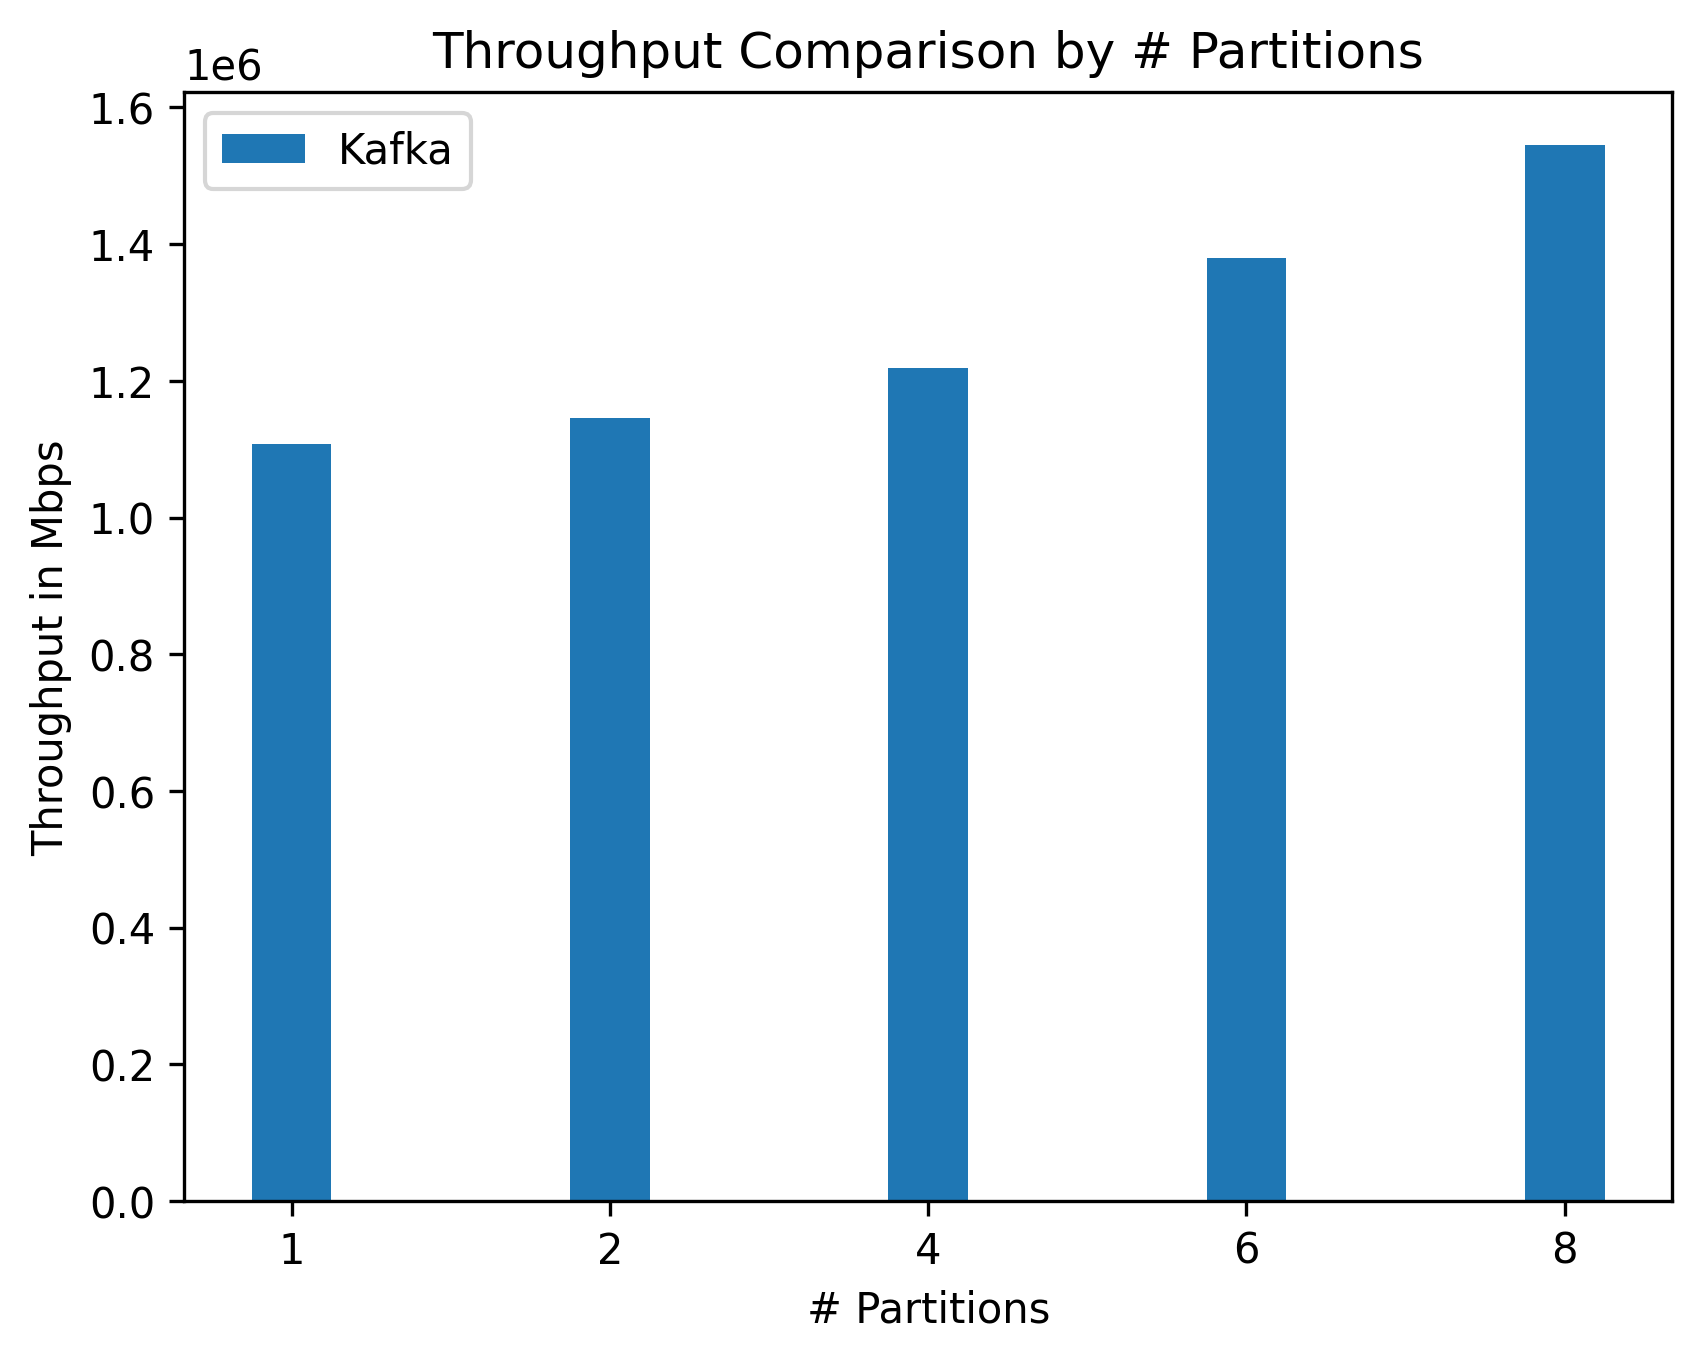
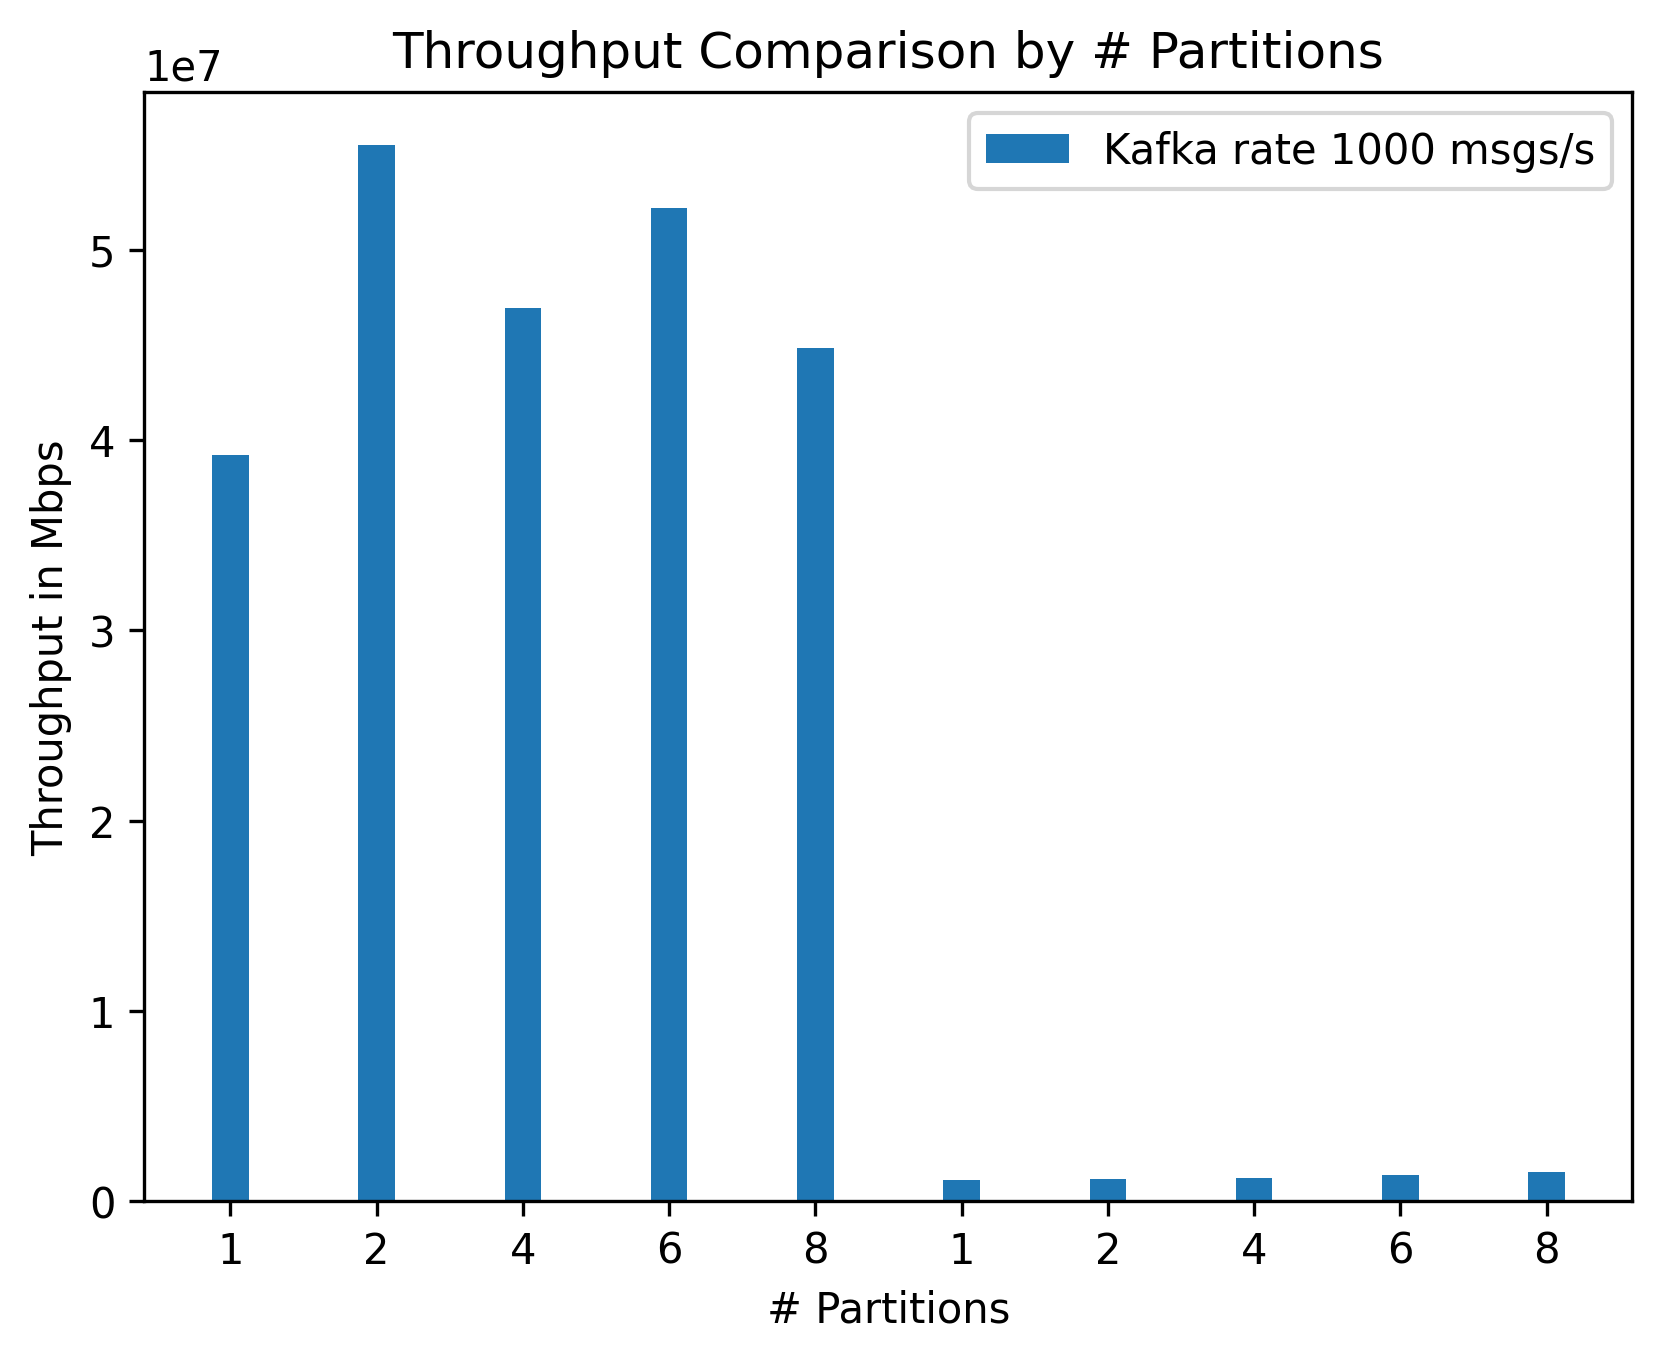
Commit

diff --git a/create_workloads_and_graph_results/graph_results.py b/create_workloads_and_graph_results/graph_results.py
@@ -171,7 +171,8 @@ def create_plot_data(test_dict, measurement):
         return df_0k.reset_index(drop=True), df_1k.reset_index(drop=True)
     elif test == 'Partitions_tests':
         df_0k, df_1k = get_thrpt_ltcy(df_hist, partitions, measurement, sizes_in_bytes, 'partitions')
-        return df_0k.reset_index(drop=True), df_1k.reset_index(drop=True)
+        df_thrpt_part = pd.concat([df_0k, df_1k], axis=0)
+        return df_thrpt_part.reset_index(drop=True)
     elif test == 'Topics_tests':
         df_0k, df_1k = get_thrpt_ltcy(df_hist, topics, measurement, sizes_in_bytes, 'topics')
         return df_0k.reset_index(drop=True), df_1k.reset_index(drop=True)
@@ -214,9 +215,11 @@ def create_histogram(df_in, ltcy_or_thrpt, filepath):
     else:
         if ltcy_or_thrpt == 'thrpt':
             measurement, x_ticks = set_measurement_x_ticks(df_plt)
+            broker_1, broker_2 = set_name_of_bars(df_plt)
+            data_1, data_2 = set_data(df_plt)
             show_plt(bar_width, df_plt, x_indexes,
-                     'RabbitMQ-mbps', 'Kafka-mbps',
-                     'RabbitMQ', 'Kafka',
+                     data_1, data_2,
+                     broker_1, broker_2,
                      measurement, 'Throughput in Mbps',
                      'Throughput Comparison by ' + measurement,
                      x_ticks,
@@ -224,9 +227,10 @@ def create_histogram(df_in, ltcy_or_thrpt, filepath):
                      logarithmic_scale=False)
         elif ltcy_or_thrpt == 'ltcy':
             measurement, x_ticks = set_measurement_x_ticks(df_plt)
+            broker_1, broker_2 = set_name_of_bars(df_plt)
             show_plt(bar_width, df_plt, x_indexes,
                      'RabbitMQ', 'Kafka-exactly-once',
-                     'RabbitMQ', 'Kafka',
+                     broker_1, broker_2,
                      measurement, 'Latency(ms)',
                      'Latency(ms) Comparison by ' + measurement,
                      x_ticks,
@@ -260,7 +264,28 @@ def set_measurement_x_ticks(df_plt):
 
     return measurement, x_ticks
 
+def set_name_of_bars(df_plt):
+    broker_1 = 'RabbitMQ'
+    broker_2 = 'Kafka'
+    if 'partitions' in df_plt.columns:
+        rate_1 = df_plt['rate'].iloc[0]  # Get the first element
+        rate_2 = df_plt['rate'].iloc[-1] # Get the last element using -1 index
+        
+        if rate_1 == 0:
+            rate_1 = 'max'
+        broker_1 = 'Kafka rate ' + rate_1 + ' msgs/s'
+        broker_2 = 'Kafka rate ' + str(rate_2) + ' msgs/s'
+        
+    return broker_1, broker_2
 
+def set_data(df_plt):
+    data_1 = 'RabbitMQ-mbps'
+    data_2 = 'Kafka-mbps'
+    if 'partitions' in df_plt.columns:
+        split_index = len(df_plt) // 2
+        data_1 = df_plt.iloc[:split_index]
+        data_2 = df_plt.iloc[split_index:]
+    return data_1, data_2
 def show_plt(bar_width, df_in, x_indexes,
              data_broker_1, data_broker_2,
              broker_1, broker_2,
@@ -271,9 +296,12 @@ def show_plt(bar_width, df_in, x_indexes,
              logarithmic_scale,
              ):
     # Plot the data
-    if 'RabbitMQ' in df_in.columns or 'RabbitMQ-mbps' in df_in.columns:
-        plt.bar(x_indexes - bar_width, df_in[data_broker_1], width=bar_width, label=broker_1)
-    plt.bar(x_indexes, df_in[data_broker_2], width=bar_width, label=broker_2)
+    if 'partitions' in df_in.columns:
+
+    else 
+        if 'RabbitMQ' in df_in.columns or 'RabbitMQ-mbps' in df_in.columns:
+            plt.bar(x_indexes - bar_width, df_in[data_broker_1], width=bar_width, label=broker_1)
+        plt.bar(x_indexes, df_in[data_broker_2], width=bar_width, label=broker_2)
 
     # Add labels and title
     plt.xlabel(x_label)
@@ -401,7 +429,7 @@ def create_directory_data_dictionary(test_directory):
         time_value = time_match.group()
         data['timestamp'] = time_value
 
-    graph_directory = os.path.join(parent_directory, 'create_and_analyse_tests', 'result', 'Graphs', test_directory)
+    graph_directory = os.path.join(parent_directory, 'create_workloads_and_graph_results', 'result', 'Graphs', test_directory)
     return data_dict, graph_directory
 
 
@@ -414,41 +442,43 @@ if __name__ == '__main__':
     topics_tests_dict, tpc_filepath = create_directory_data_dictionary('Topics_tests')
 
     # Throughput tests charts - Max throughput: on  100b, 500b, 1kb, 2kb, 4kb message size
-    df_thrpt = create_plot_data(throughput_tests_dict, 'consumeRate')
-    df_ltcy_msgs_size = create_plot_data(throughput_tests_dict, "aggregatedEndToEndLatency99pct")
-
-    df_mbps = create_histogram(df_thrpt, 'thrpt', thrpt_filepath)
-    df_size = create_histogram(df_thrpt, 'nan', thrpt_filepath)
+    # df_thrpt = create_plot_data(throughput_tests_dict, 'consumeRate')
+    # df_ltcy_msgs_size = create_plot_data(throughput_tests_dict, "aggregatedEndToEndLatency99pct")
+    #
+    # df_mbps = create_histogram(df_thrpt, 'thrpt', thrpt_filepath)
+    # df_size = create_histogram(df_thrpt, 'nan', thrpt_filepath)
     # latency for message size max throughput
     # df_latency = create_histogram(df_ltcy_msgs_size, 'ltcy', thrpt_filepath)
 
+    # ----------------------------------------------------------------------------------
     # Latency tests charts - producer rate~, message size: 1Kb, 8Kb
-    df_1kb_99pct, df_8kb_99pct = create_plot_data(latency_tests_dict, "aggregatedEndToEndLatency99pct")
+    # df_1kb_99pct, df_8kb_99pct = create_plot_data(latency_tests_dict, "aggregatedEndToEndLatency99pct")
+    #
+    # df_1kb_99pct = create_histogram(df_1kb_99pct, 'nan', ltcy_filepath)
+    # df_8kb_99pct = create_histogram(df_8kb_99pct, 'nan', ltcy_filepath)
 
-    df_1kb_99pct = create_histogram(df_1kb_99pct, 'nan', ltcy_filepath)
-    df_8kb_99pct = create_histogram(df_8kb_99pct, 'nan', ltcy_filepath)
-
+    # ----------------------------------------------------------------------------------
     # Producer/Consumer tests charts - Max throughput: on 1kb message size, Latency: on 1kb message size producer
     # rate 1k
-    df_thrpt_max, df_thrpt_1k = create_plot_data(prod_cons_tests_dict, 'consumeRate')
-    df_ltcy_max, df_ltcy_1k = create_plot_data(prod_cons_tests_dict, 'aggregatedEndToEndLatency99pct')
+    # df_thrpt_max, df_thrpt_1k = create_plot_data(prod_cons_tests_dict, 'consumeRate')
+    # df_ltcy_max, df_ltcy_1k = create_plot_data(prod_cons_tests_dict, 'aggregatedEndToEndLatency99pct')
+    #
+    # df_prod_cons_thrpt_max = create_histogram(df_thrpt_max, 'thrpt', prod_cons_filepath)
+    # df_prod_cons_thrpt_1k = create_histogram(df_thrpt_1k, 'thrpt', prod_cons_filepath)
+    # df_prod_cons_ltcy_max = create_histogram(df_ltcy_max, 'ltcy', prod_cons_filepath)
+    # df_prod_cons_ltcy_1k = create_histogram(df_ltcy_1k, 'ltcy', prod_cons_filepath)
 
-    df_prod_cons_thrpt_max = create_histogram(df_thrpt_max, 'thrpt', prod_cons_filepath)
-    df_prod_cons_thrpt_1k = create_histogram(df_thrpt_1k, 'thrpt', prod_cons_filepath)
-    df_prod_cons_ltcy_max = create_histogram(df_ltcy_max, 'ltcy', prod_cons_filepath)
-    df_prod_cons_ltcy_1k = create_histogram(df_ltcy_1k, 'ltcy', prod_cons_filepath)
-
+    # ----------------------------------------------------------------------------------
     # Partitions test charts - Max throughput: on 1kb message size, Latency: on 1kb message size producer rate 1k
-    df_thrpt_max_part, df_thrpt_1k_part = create_plot_data(partitions_tests_dict, 'consumeRate')
-    df_ltcy_max_part, df_ltcy_1k_part = create_plot_data(partitions_tests_dict, 'aggregatedEndToEndLatency99pct')
+    df_thrpt_part = create_plot_data(partitions_tests_dict, 'consumeRate')
+    df_ltcy_part = create_plot_data(partitions_tests_dict, 'aggregatedEndToEndLatency99pct')
 
-    df_part_thrpt_max = create_histogram(df_thrpt_max_part, 'thrpt', prt_filepath)
-    df_part_thrpt_1k = create_histogram(df_thrpt_1k_part, 'thrpt', prt_filepath)
-    df_part_ltcy_max = create_histogram(df_ltcy_max_part, 'ltcy', prt_filepath)
-    df_part_ltcy_1k = create_histogram(df_ltcy_1k_part, 'ltcy', prt_filepath)
 
+    df_part_thrpt = create_histogram(df_thrpt_part, 'thrpt', prt_filepath)
+    df_part_ltcy = create_histogram(df_ltcy_part, 'ltcy', prt_filepath)
+
+    # ----------------------------------------------------------------------------------
     # Topics test charts - Max throughput: on 1kb message size, Latency: on 1kb message size producer rate 1k
-
     df_thrpt_max_topic, df_thrpt_1k_topic = create_plot_data(topics_tests_dict, 'consumeRate')
     df_ltcy_max_topic, df_ltcy_1k_topic = create_plot_data(topics_tests_dict, 'aggregatedEndToEndLatency99pct')
 

diff --git a/test_commands.md b/test_commands.md
@@ -221,14 +221,16 @@ bin/kafka-topics.sh --bootstrap-server my-cluster-kafka-bootstrap:9092 --list
 
 ----------------------------------------------------
 
-### Prerequisite: Set up kubernetes context 
+### Prerequisite: Set up kubernetes context
 
 Change to the namespace depending on broker to be tested </br>
 kubectl config set-context --current --namespace default
 kubectl config set-context --current --namespace kafka
 
 ### 1. RabbitMQ set up (option 1)
+
 No installation, just install helm chart and forward to management tool
+helm install benchmark oci://$ACR_NAME.azurecr.io/helm/openmessaging-benchmark --version 0.0.1
 
 ### 1. Install set up for Kafka tests (option 2)
 
@@ -242,7 +244,7 @@ No installation, just install helm chart and forward to management tool
    kubectl apply -f ./deployment/kubernetes/kafka/kafka-bridge.yaml
 
 4. Create pods for openmessaging benchmark, wait till running
-   helm install benchmark oci://$ACR_NAME.azurecr.io/helm/openmessaging-benchmark --version 1.0.6
+   helm install benchmark oci://$ACR_NAME.azurecr.io/helm/openmessaging-benchmark --version 1.0.0
 
 ### 2. Run test for RabbitMQ (option 1)
 
@@ -261,7 +263,6 @@ No installation, just install helm chart and forward to management tool
    bin/benchmark --drivers driver-kafka/kafka-exactly-once-rep3.yaml --workers $WORKERS workloads/Kafka/1-topic-1-partition-1kb.yaml </br>
    bin/benchmark --drivers driver-kafka/kafka-exactly-once-rep3.yaml --workers $WORKERS workloads/Kafka/1-topic-100-partitions-1kb-4p-4c-200k.yaml
 
-
 ### 3. Copy the result from pod to current directory
 
 kubectl cp default/benchmark-driver:<sourcefile> <targetfile> </br>
@@ -270,18 +271,15 @@ kubectl cp kafka/benchmark-driver:<sourcefile> <targetfile>
 Example:
 kubectl cp default/benchmark-driver:1-topic-1-partition-1kb-RabbitMQ-2024-02-05-15-54-53.json 1-topic-1-partition-1kb-RabbitMQ-2024-02-05-15-54-53.json
 
-
 ### 4. Reset RabbitMQ (option 1)
+
 Exchange and queues needs to be deleted from the management tool before running new test to clean broker
 
 helm uninstall benchmark
-
-
 
 ### 4. Uninstall set up for Kafka tests (option 2)
 
 kubectl delete -f 'https://strimzi.io/install/latest?namespace=kafka' -n kafka
 
 helm uninstall benchmark
-
 
